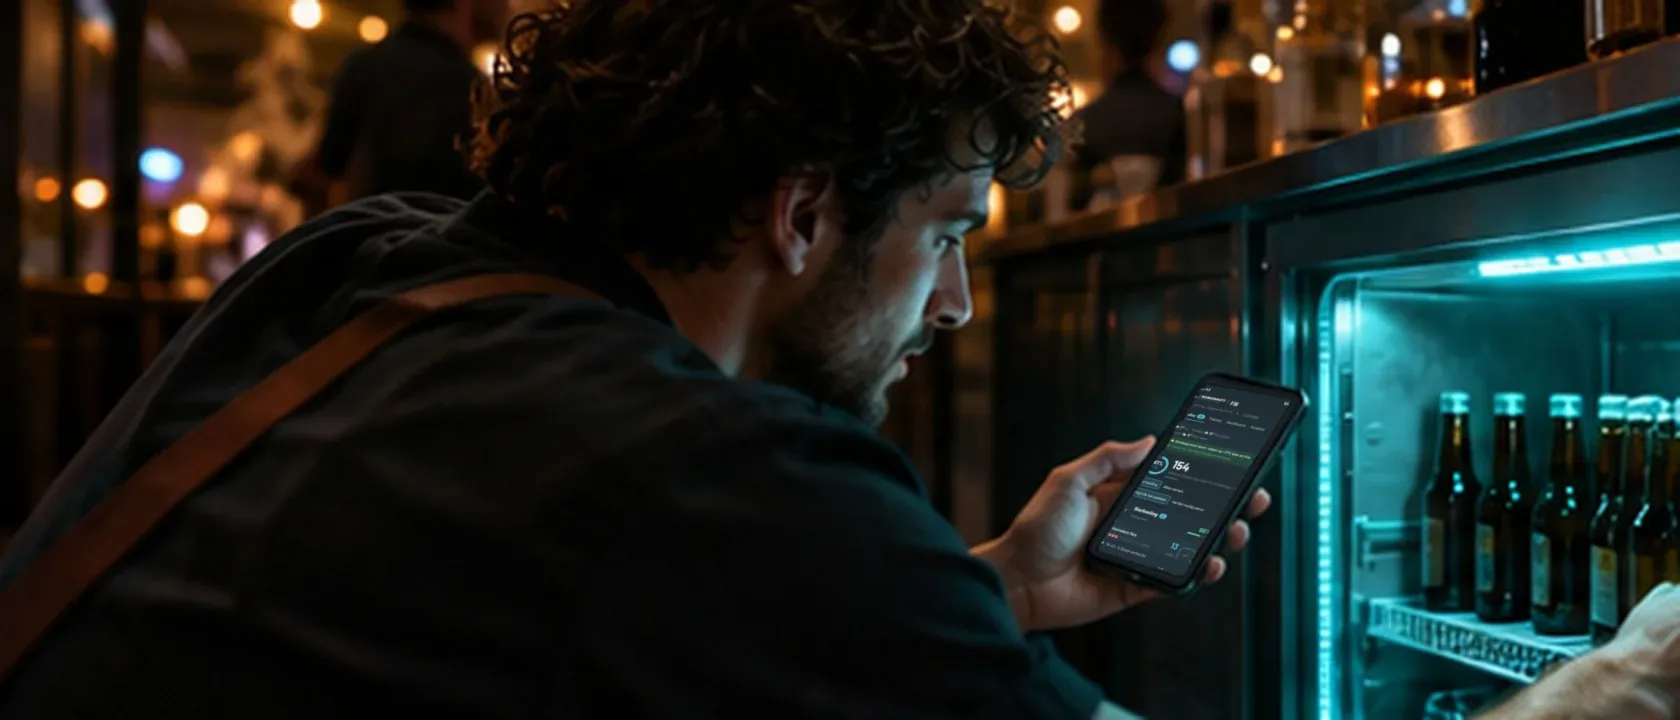
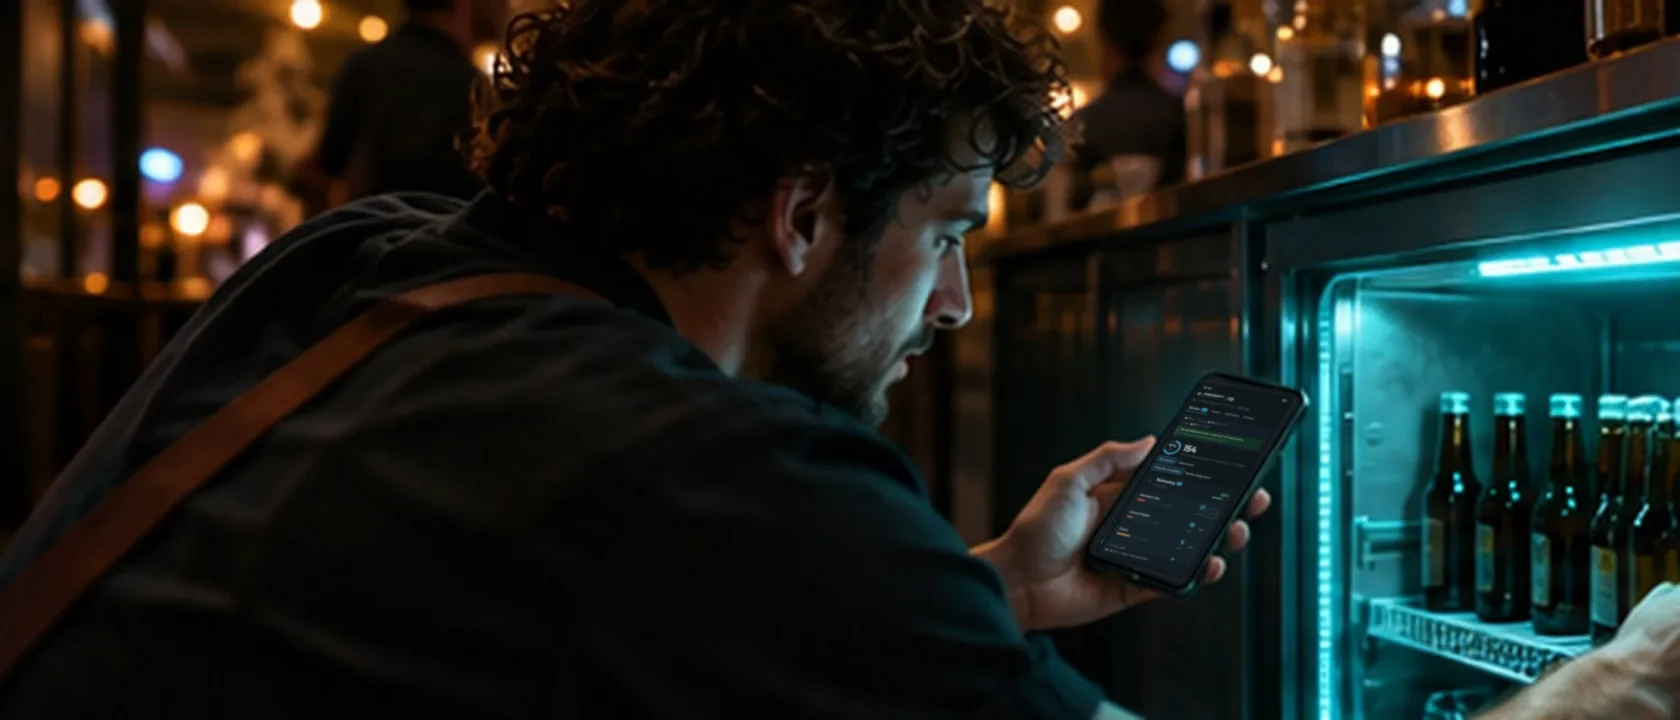
Sfeerfoto's: echte app-schermen in perspectief op de apparaten (#33)
Fill-, Loop- en Pass-schermen opnieuw ingepast op de vier hoeken van elk
scherm, zodat het beeld meeloopt met de hoek waarin het apparaat staat.
Vingers liggen weer over het scherm, witte randjes weg.

Claude-Session: https://claude.ai/code/session_01ALUUsfmRKza1PMbGdj28pU

Changed region(s): [[0.65, 0.5194, 0.7738, 0.7944]]

diff --git a/index.html b/index.html
@@ -981,7 +981,7 @@ footer .meta a:hover{color:var(--fg)}
 </div>
 </div>
 
-<div class="wrap ha-wrap"><div class="hero-apps"><a class="h-fill" href="#fill" aria-label="Bekijk Fill"><img src="img/sfeer/fill-1.webp?v=4" alt="" style="object-position:62% center" loading="eager"><span class="ha-t"><b>Fill<i aria-hidden="true"><svg viewBox="0 0 24 24" fill="none" stroke="currentColor" stroke-width="2.8" stroke-linecap="round" stroke-linejoin="round"><path d="M5 12h14M13 6l6 6-6 6"/></svg></i></b><span>Volle koelingen, live met je kassa</span></span></a><a class="h-loop" href="#loop" aria-label="Bekijk Loop"><img src="img/sfeer/loop-3.webp?v=4" alt="" style="object-position:72% center" loading="eager"><span class="ha-t"><b>Loop<i aria-hidden="true"><svg viewBox="0 0 24 24" fill="none" stroke="currentColor" stroke-width="2.8" stroke-linecap="round" stroke-linejoin="round"><path d="M5 12h14M13 6l6 6-6 6"/></svg></i></b><span>De mise en place samen op één lijst</span></span></a><a class="h-pass" href="#pass" aria-label="Bekijk Pass"><img src="img/sfeer/pass-3.webp?v=4" alt="" style="object-position:38% center" loading="eager"><span class="ha-t"><b>Pass<i aria-hidden="true"><svg viewBox="0 0 24 24" fill="none" stroke="currentColor" stroke-width="2.8" stroke-linecap="round" stroke-linejoin="round"><path d="M5 12h14M13 6l6 6-6 6"/></svg></i></b><span>Meer drankjes, op het juiste moment</span></span></a><a class="h-echo" href="#echo" aria-label="Bekijk Echo"><img src="img/sfeer/echo-2.webp" alt="" style="object-position:48% center" loading="eager"><span class="ha-t"><b>Echo<i aria-hidden="true"><svg viewBox="0 0 24 24" fill="none" stroke="currentColor" stroke-width="2.8" stroke-linecap="round" stroke-linejoin="round"><path d="M5 12h14M13 6l6 6-6 6"/></svg></i></b><span>Eén tik aan tafel na het afrekenen</span></span></a></div></div>
+<div class="wrap ha-wrap"><div class="hero-apps"><a class="h-fill" href="#fill" aria-label="Bekijk Fill"><img src="img/sfeer/fill-1.webp?v=5" alt="" style="object-position:62% center" loading="eager"><span class="ha-t"><b>Fill<i aria-hidden="true"><svg viewBox="0 0 24 24" fill="none" stroke="currentColor" stroke-width="2.8" stroke-linecap="round" stroke-linejoin="round"><path d="M5 12h14M13 6l6 6-6 6"/></svg></i></b><span>Volle koelingen, live met je kassa</span></span></a><a class="h-loop" href="#loop" aria-label="Bekijk Loop"><img src="img/sfeer/loop-3.webp?v=5" alt="" style="object-position:72% center" loading="eager"><span class="ha-t"><b>Loop<i aria-hidden="true"><svg viewBox="0 0 24 24" fill="none" stroke="currentColor" stroke-width="2.8" stroke-linecap="round" stroke-linejoin="round"><path d="M5 12h14M13 6l6 6-6 6"/></svg></i></b><span>De mise en place samen op één lijst</span></span></a><a class="h-pass" href="#pass" aria-label="Bekijk Pass"><img src="img/sfeer/pass-3.webp?v=5" alt="" style="object-position:38% center" loading="eager"><span class="ha-t"><b>Pass<i aria-hidden="true"><svg viewBox="0 0 24 24" fill="none" stroke="currentColor" stroke-width="2.8" stroke-linecap="round" stroke-linejoin="round"><path d="M5 12h14M13 6l6 6-6 6"/></svg></i></b><span>Meer drankjes, op het juiste moment</span></span></a><a class="h-echo" href="#echo" aria-label="Bekijk Echo"><img src="img/sfeer/echo-2.webp" alt="" style="object-position:48% center" loading="eager"><span class="ha-t"><b>Echo<i aria-hidden="true"><svg viewBox="0 0 24 24" fill="none" stroke="currentColor" stroke-width="2.8" stroke-linecap="round" stroke-linejoin="round"><path d="M5 12h14M13 6l6 6-6 6"/></svg></i></b><span>Eén tik aan tafel na het afrekenen</span></span></a></div></div>
 <div class="wrap ha-wrap day-wrap">
 <div class="day" id="day" aria-label="Een dag in de horeca met de momenten waarop Loop, Pass, Fill en Echo het werk doen">
 <div class="day-h"><b>Een dag met RoboShift</b><span class="day-now" id="day-now"><i></i>nu <b class="num" id="day-time">20:00</b></span></div>
@@ -1016,9 +1016,9 @@ footer .meta a:hover{color:var(--fg)}
 <!-- ===== FILL ===== -->
 <div class="app-panel" id="fill" role="tabpanel" aria-labelledby="t-fill">
 <div class="duo duo-top">
-<figure><img src="img/sfeer/fill-1.webp?v=4" alt="Kratten in het magazijn met de Fill-paklijst op een telefoon" loading="lazy"><figcaption>Eén keer lopen: de paklijst ligt klaar op de kratten.</figcaption></figure>
-<figure><img src="img/sfeer/fill-2.webp?v=4" alt="Barmedewerker bij de koeling met Fill op de telefoon" style="object-position:65% center" loading="lazy"><figcaption>Bijvullen aan de koeling: je ziet live wat er weg is.</figcaption></figure>
-<figure><img src="img/sfeer/fill-3.webp?v=4" alt="Telefoon met Fill op een tafel op het terras aan de haven" loading="lazy"><figcaption>Mooi weer op het terras? Fill weet vooraf hoeveel extra er koud moet.</figcaption></figure>
+<figure><img src="img/sfeer/fill-1.webp?v=5" alt="Kratten in het magazijn met de Fill-paklijst op een telefoon" loading="lazy"><figcaption>Eén keer lopen: de paklijst ligt klaar op de kratten.</figcaption></figure>
+<figure><img src="img/sfeer/fill-2.webp?v=5" alt="Barmedewerker bij de koeling met Fill op de telefoon" style="object-position:65% center" loading="lazy"><figcaption>Bijvullen aan de koeling: je ziet live wat er weg is.</figcaption></figure>
+<figure><img src="img/sfeer/fill-3.webp?v=5" alt="Telefoon met Fill op een tafel op het terras aan de haven" loading="lazy"><figcaption>Mooi weer op het terras? Fill weet vooraf hoeveel extra er koud moet.</figcaption></figure>
 </div>
 <div class="split">
 <div>
@@ -1176,9 +1176,9 @@ footer .meta a:hover{color:var(--fg)}
 <!-- ===== LOOP ===== -->
 <div class="app-panel" id="loop" role="tabpanel" aria-labelledby="t-loop" hidden>
 <div class="duo duo-top">
-<figure><img src="img/sfeer/loop-1.webp?v=4" alt="Kok tikt op Loop op de tablet in de keuken" style="object-position:70% center" loading="lazy"><figcaption>Afvinken op de tablet: klaar is klaar, voor iedereen zichtbaar.</figcaption></figure>
-<figure><img src="img/sfeer/loop-2.webp?v=4" alt="Kok aan het snijden met Loop op de telefoon naast de bakken" loading="lazy"><figcaption>Iedereen werkt tegelijk op dezelfde lijst.</figcaption></figure>
-<figure><img src="img/sfeer/loop-3.webp?v=4" alt="Lege gastrobak, iemand markeert het in Loop" loading="lazy"><figcaption>Bijna op? Markeer het, dan weet de inkoop het.</figcaption></figure>
+<figure><img src="img/sfeer/loop-1.webp?v=5" alt="Kok tikt op Loop op de tablet in de keuken" style="object-position:70% center" loading="lazy"><figcaption>Afvinken op de tablet: klaar is klaar, voor iedereen zichtbaar.</figcaption></figure>
+<figure><img src="img/sfeer/loop-2.webp?v=5" alt="Kok aan het snijden met Loop op de telefoon naast de bakken" loading="lazy"><figcaption>Iedereen werkt tegelijk op dezelfde lijst.</figcaption></figure>
+<figure><img src="img/sfeer/loop-3.webp?v=5" alt="Lege gastrobak, iemand markeert het in Loop" loading="lazy"><figcaption>Bijna op? Markeer het, dan weet de inkoop het.</figcaption></figure>
 </div>
 <div class="split">
 <div>
@@ -1210,9 +1210,9 @@ footer .meta a:hover{color:var(--fg)}
 <!-- ===== PASS ===== -->
 <div class="app-panel" id="pass" role="tabpanel" aria-labelledby="t-pass" hidden>
 <div class="duo duo-top">
-<figure><img src="img/sfeer/pass-3.webp?v=4" alt="Bediening met een rondje bier en Pass op de telefoon" loading="lazy"><figcaption>Drankkansen: zie welke tafel toe is aan een rondje.</figcaption></figure>
-<figure><img src="img/sfeer/pass-2.webp?v=4" alt="Bediening tikt op Pass om een tafel uit te vragen" loading="lazy"><figcaption>Uitvragen op het juiste moment, met één tik in unTill.</figcaption></figure>
-<figure><img src="img/sfeer/pass-1.webp?v=4" alt="Pass op de tablet bij de pas, onder de warmhoudlampen" style="object-position:75% center" loading="lazy"><figcaption>Bij de pas ziet de bediening in één blik wat er nu moet gebeuren.</figcaption></figure>
+<figure><img src="img/sfeer/pass-3.webp?v=5" alt="Bediening met een rondje bier en Pass op de telefoon" loading="lazy"><figcaption>Drankkansen: zie welke tafel toe is aan een rondje.</figcaption></figure>
+<figure><img src="img/sfeer/pass-2.webp?v=5" alt="Bediening tikt op Pass om een tafel uit te vragen" loading="lazy"><figcaption>Uitvragen op het juiste moment, met één tik in unTill.</figcaption></figure>
+<figure><img src="img/sfeer/pass-1.webp?v=5" alt="Pass op de tablet bij de pas, onder de warmhoudlampen" style="object-position:75% center" loading="lazy"><figcaption>Bij de pas ziet de bediening in één blik wat er nu moet gebeuren.</figcaption></figure>
 </div>
 <div class="pass-top">
 <div>
